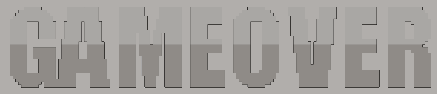
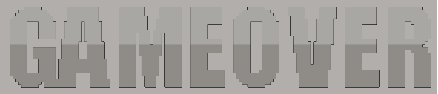
Fixed GameOver bug by adding an image to the table of RescueMissionScreen rather than drawing it in the draw method.

diff --git a/core/src/com/vv/game/screens/RescueMissionScreen.java b/core/src/com/vv/game/screens/RescueMissionScreen.java
@@ -9,6 +9,7 @@ import com.badlogic.gdx.maps.tiled.TiledMap;
 import com.badlogic.gdx.maps.tiled.renderers.OrthogonalTiledMapRenderer;
 import com.badlogic.gdx.physics.box2d.World;
 import com.badlogic.gdx.scenes.scene2d.Stage;
+import com.badlogic.gdx.scenes.scene2d.ui.Image;
 import com.badlogic.gdx.scenes.scene2d.ui.ImageButton;
 import com.badlogic.gdx.scenes.scene2d.ui.Table;
 import com.badlogic.gdx.scenes.scene2d.utils.TextureRegionDrawable;
@@ -35,6 +36,7 @@ public class RescueMissionScreen extends AbstractScreen {
     private ImageButton newGameButton;
     private ImageButton exitButton;
     private ImageButton nextButton;
+    private float gameOverX, gameOverY;
 
     /**
      * The Rescue Mission Screen constructor sets up the camera and stage which are used to render textures. It also
@@ -75,11 +77,17 @@ public class RescueMissionScreen extends AbstractScreen {
     public Stage getStage(){ return this.stage; }
 
     public void setGameOver(boolean gameOver) {
-        this.gameOver = gameOver;
-        table.setPosition(cam.position.x - (float) VidarVoyager.APP_WIDTH / 2,
-                cam.position.y - ((float) VidarVoyager.APP_WIDTH / 2) - gameOverImage.getHeight());
-        table.add(exitButton);
-        table.add(newGameButton);
+        if(this.gameOver != gameOver) {
+            this.gameOver = gameOver;
+
+            table.add(new Image(gameOverImage)).colspan(2);
+            table.row();
+
+            table.setPosition(cam.position.x - (float) VidarVoyager.APP_WIDTH / 2,
+                    cam.position.y - ((float) VidarVoyager.APP_WIDTH / 2) - gameOverImage.getHeight());
+            table.add(exitButton).padLeft((float)gameOverImage.getWidth() / 2);
+            table.add(newGameButton).padRight((float)gameOverImage.getWidth() / 2);
+        }
     }
 
     public void setGameWon(boolean gameWon) {
@@ -156,11 +164,6 @@ public class RescueMissionScreen extends AbstractScreen {
         mapRenderer.render();
 
         stage.draw();
-
-        if(gameOver){
-            batch.draw(gameOverImage, cam.position.x - ((float) gameOverImage.getWidth() / 2),
-                    cam.position.y - ((float) gameOverImage.getHeight() / 2));
-        }
 
         if(VidarVoyager.DEBUGGING){
             b2dr.render(world, cam.combined.cpy().scl(VidarVoyager.PPM));

diff --git a/core/src/com/vv/game/VidarVoyager.java b/core/src/com/vv/game/VidarVoyager.java
@@ -37,7 +37,9 @@ public class VidarVoyager implements ApplicationListener {
 	public void create () {
 		rescueMission = new RescueMission();
 		multiplexer = new InputMultiplexer();
-		screenController = new ScreenController(rescueMission.getWorld(), rescueMission.getMap(), rescueMission.getInstructions());
+		screenController = new ScreenController(rescueMission.getWorld(),
+				rescueMission.getMap(),
+				rescueMission.getInstructions());
 
 		//Add actors to stage.
 		Stage stage = screenController.getScreenStage(SCREEN_STATE.RESCUE_MISSION_SCREEN);
@@ -113,7 +115,9 @@ public class VidarVoyager implements ApplicationListener {
 		multiplexer.clear();
 
 		rescueMission = new RescueMission();
-		screenController = new ScreenController(rescueMission.getWorld(), rescueMission.getMap(), rescueMission.getInstructions());
+		screenController = new ScreenController(rescueMission.getWorld(),
+				rescueMission.getMap(),
+				rescueMission.getInstructions());
 
 		//Add actors to stage.
 		Stage stage = screenController.getScreenStage(SCREEN_STATE.RESCUE_MISSION_SCREEN);
